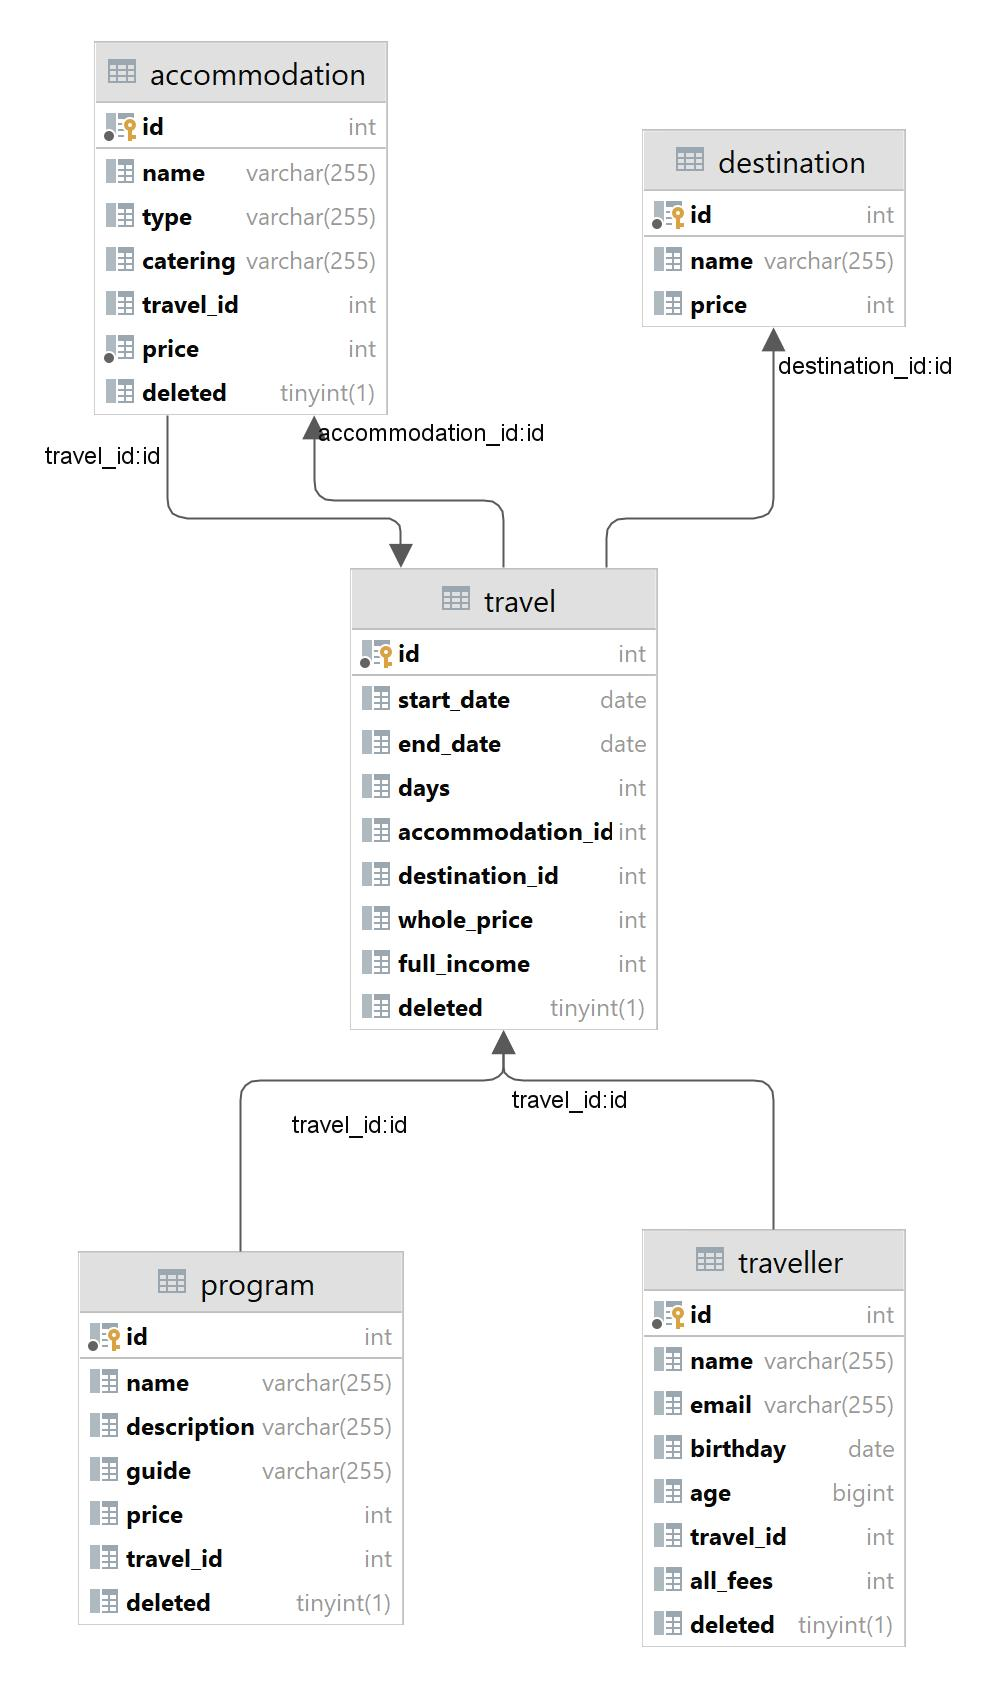
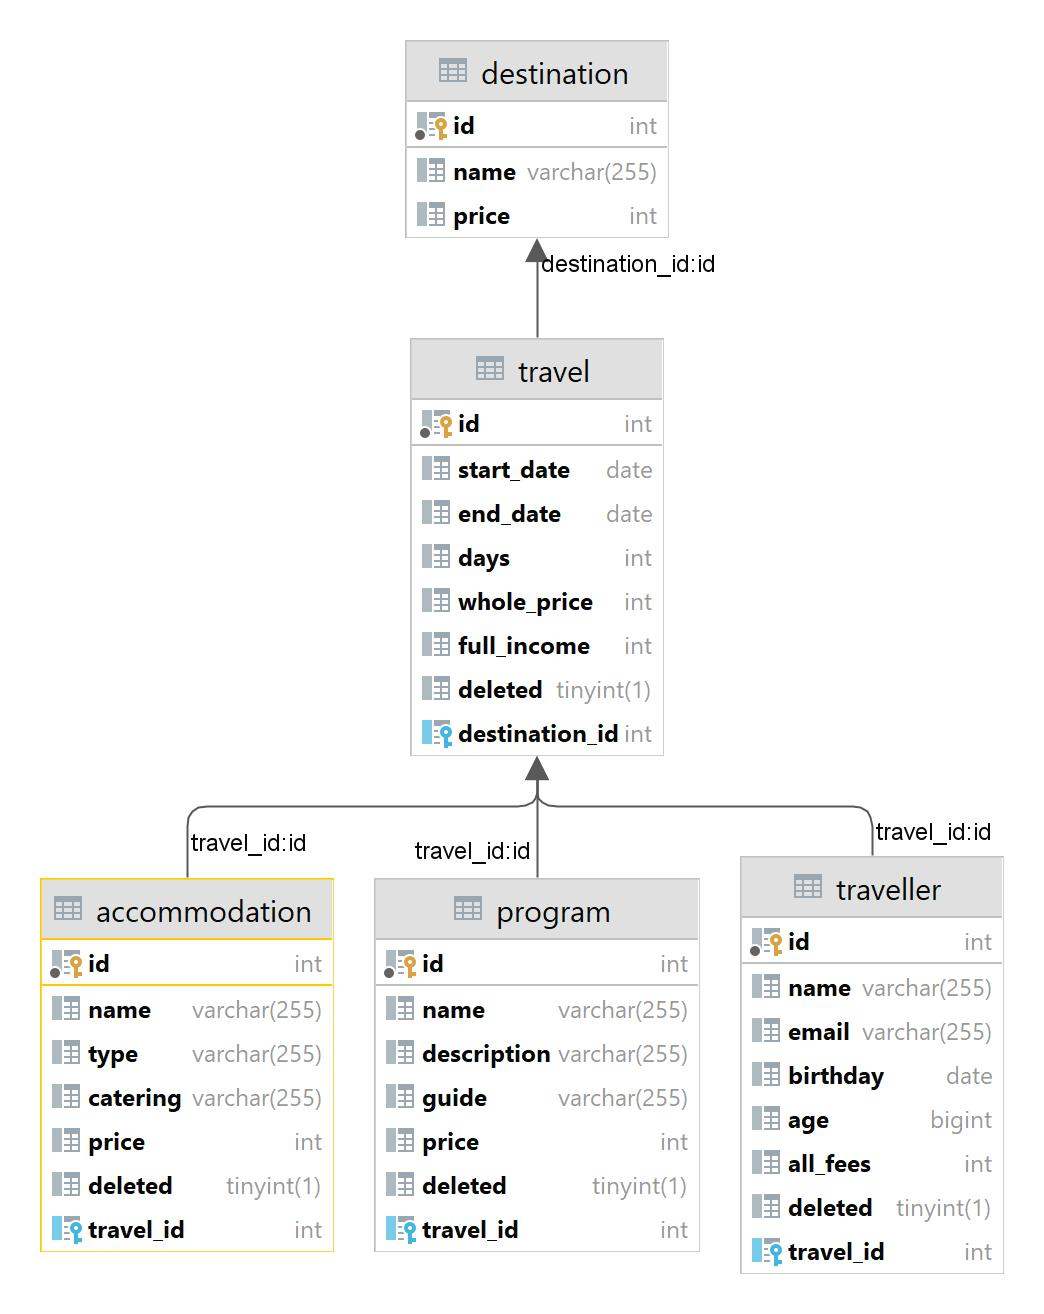
Flyway, connections, diagram update.

Changed region(s): [[0.0309, 0.0, 0.9572, 0.9673], [0.741, 0.1872, 0.8645, 0.2184], [0.741, 0.2808, 0.7719, 0.312]]

diff --git a/src/test/java/TravelAgencyAppIT.java b/src/test/java/TravelAgencyAppIT.java
@@ -3,7 +3,7 @@ import org.springframework.boot.test.autoconfigure.jdbc.AutoConfigureTestDatabas
 import org.springframework.boot.test.context.SpringBootTest;
 import travelagency.TravelAgencyApp;
 
-@SpringBootTest(classes = TravelAgencyApp.class)
+@SpringBootTest(classes = TravelAgencyApp.class, webEnvironment = SpringBootTest.WebEnvironment.RANDOM_PORT)
 @AutoConfigureTestDatabase
 public class TravelAgencyAppIT {
 

diff --git a/src/main/java/travelagency/domain/Travel.java b/src/main/java/travelagency/domain/Travel.java
@@ -20,8 +20,7 @@ public class Travel {
     @JoinColumn(name = "destination_id")
     private Destination destination;
 
-    @OneToOne
-    @JoinColumn(name = "accommodation_id")
+    @OneToOne(mappedBy = "travel", fetch = FetchType.LAZY)
     private Accommodation accommodation;
 
     private LocalDate startDate;

diff --git a/src/main/java/travelagency/dto/ProgramInfo.java b/src/main/java/travelagency/dto/ProgramInfo.java
@@ -10,5 +10,6 @@ public class ProgramInfo {
     private String name;
     private String description;
     private String guide;
+    private Integer travelId;
     private Integer price;
 }
